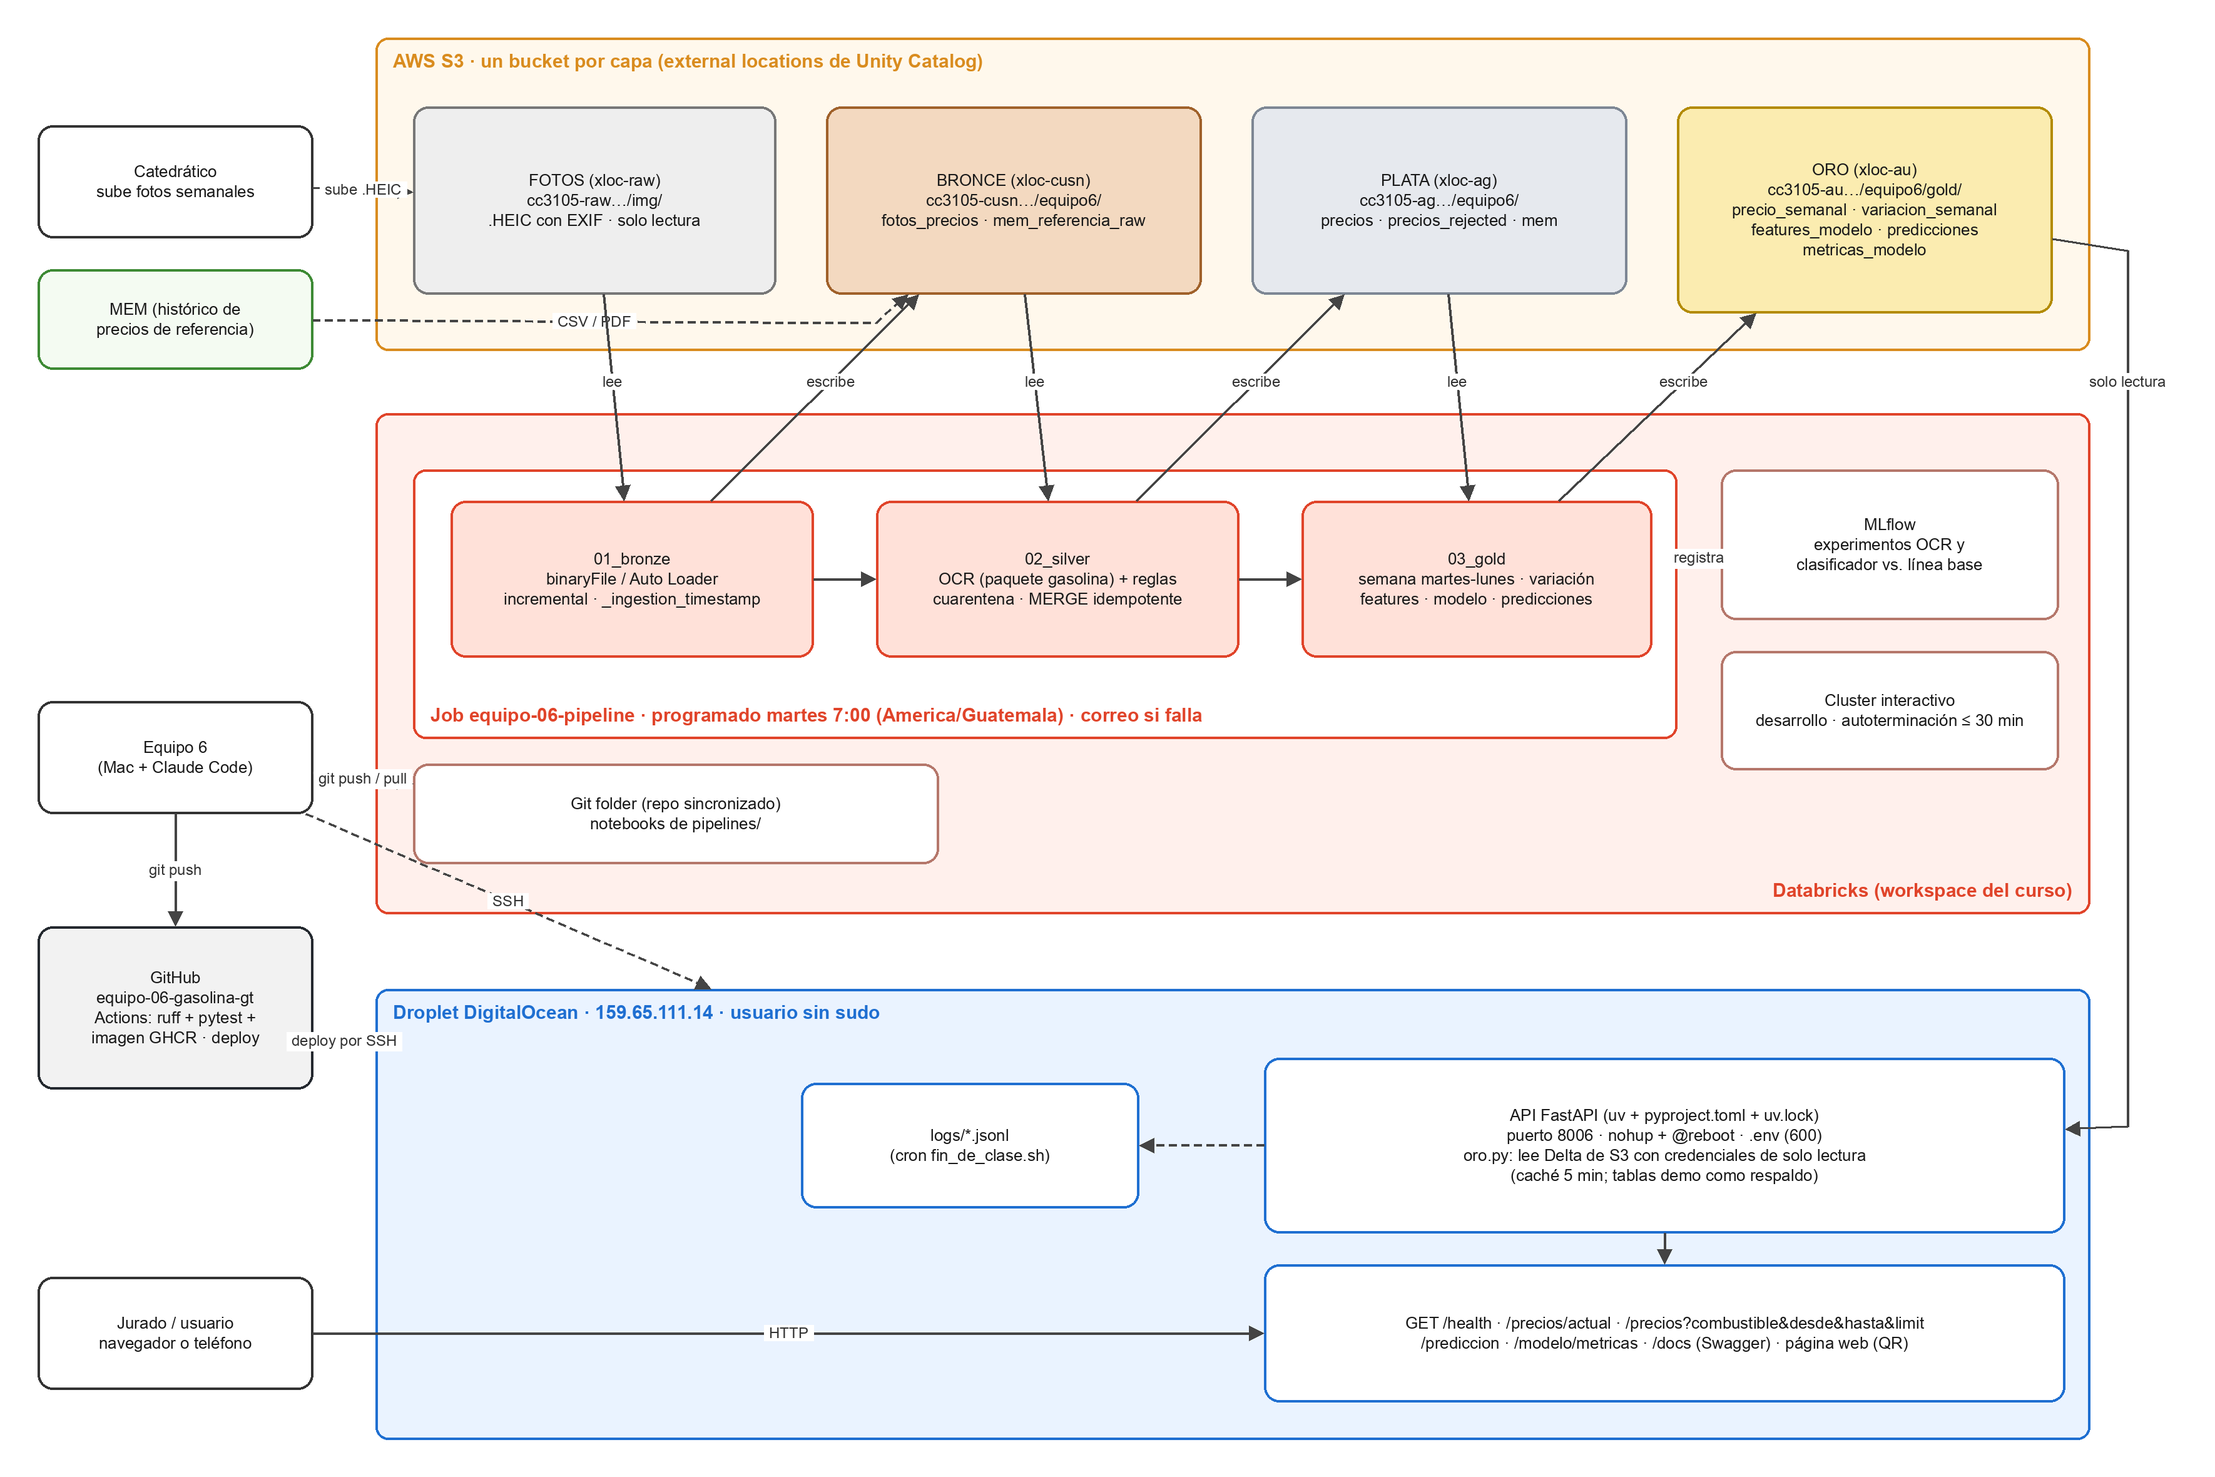
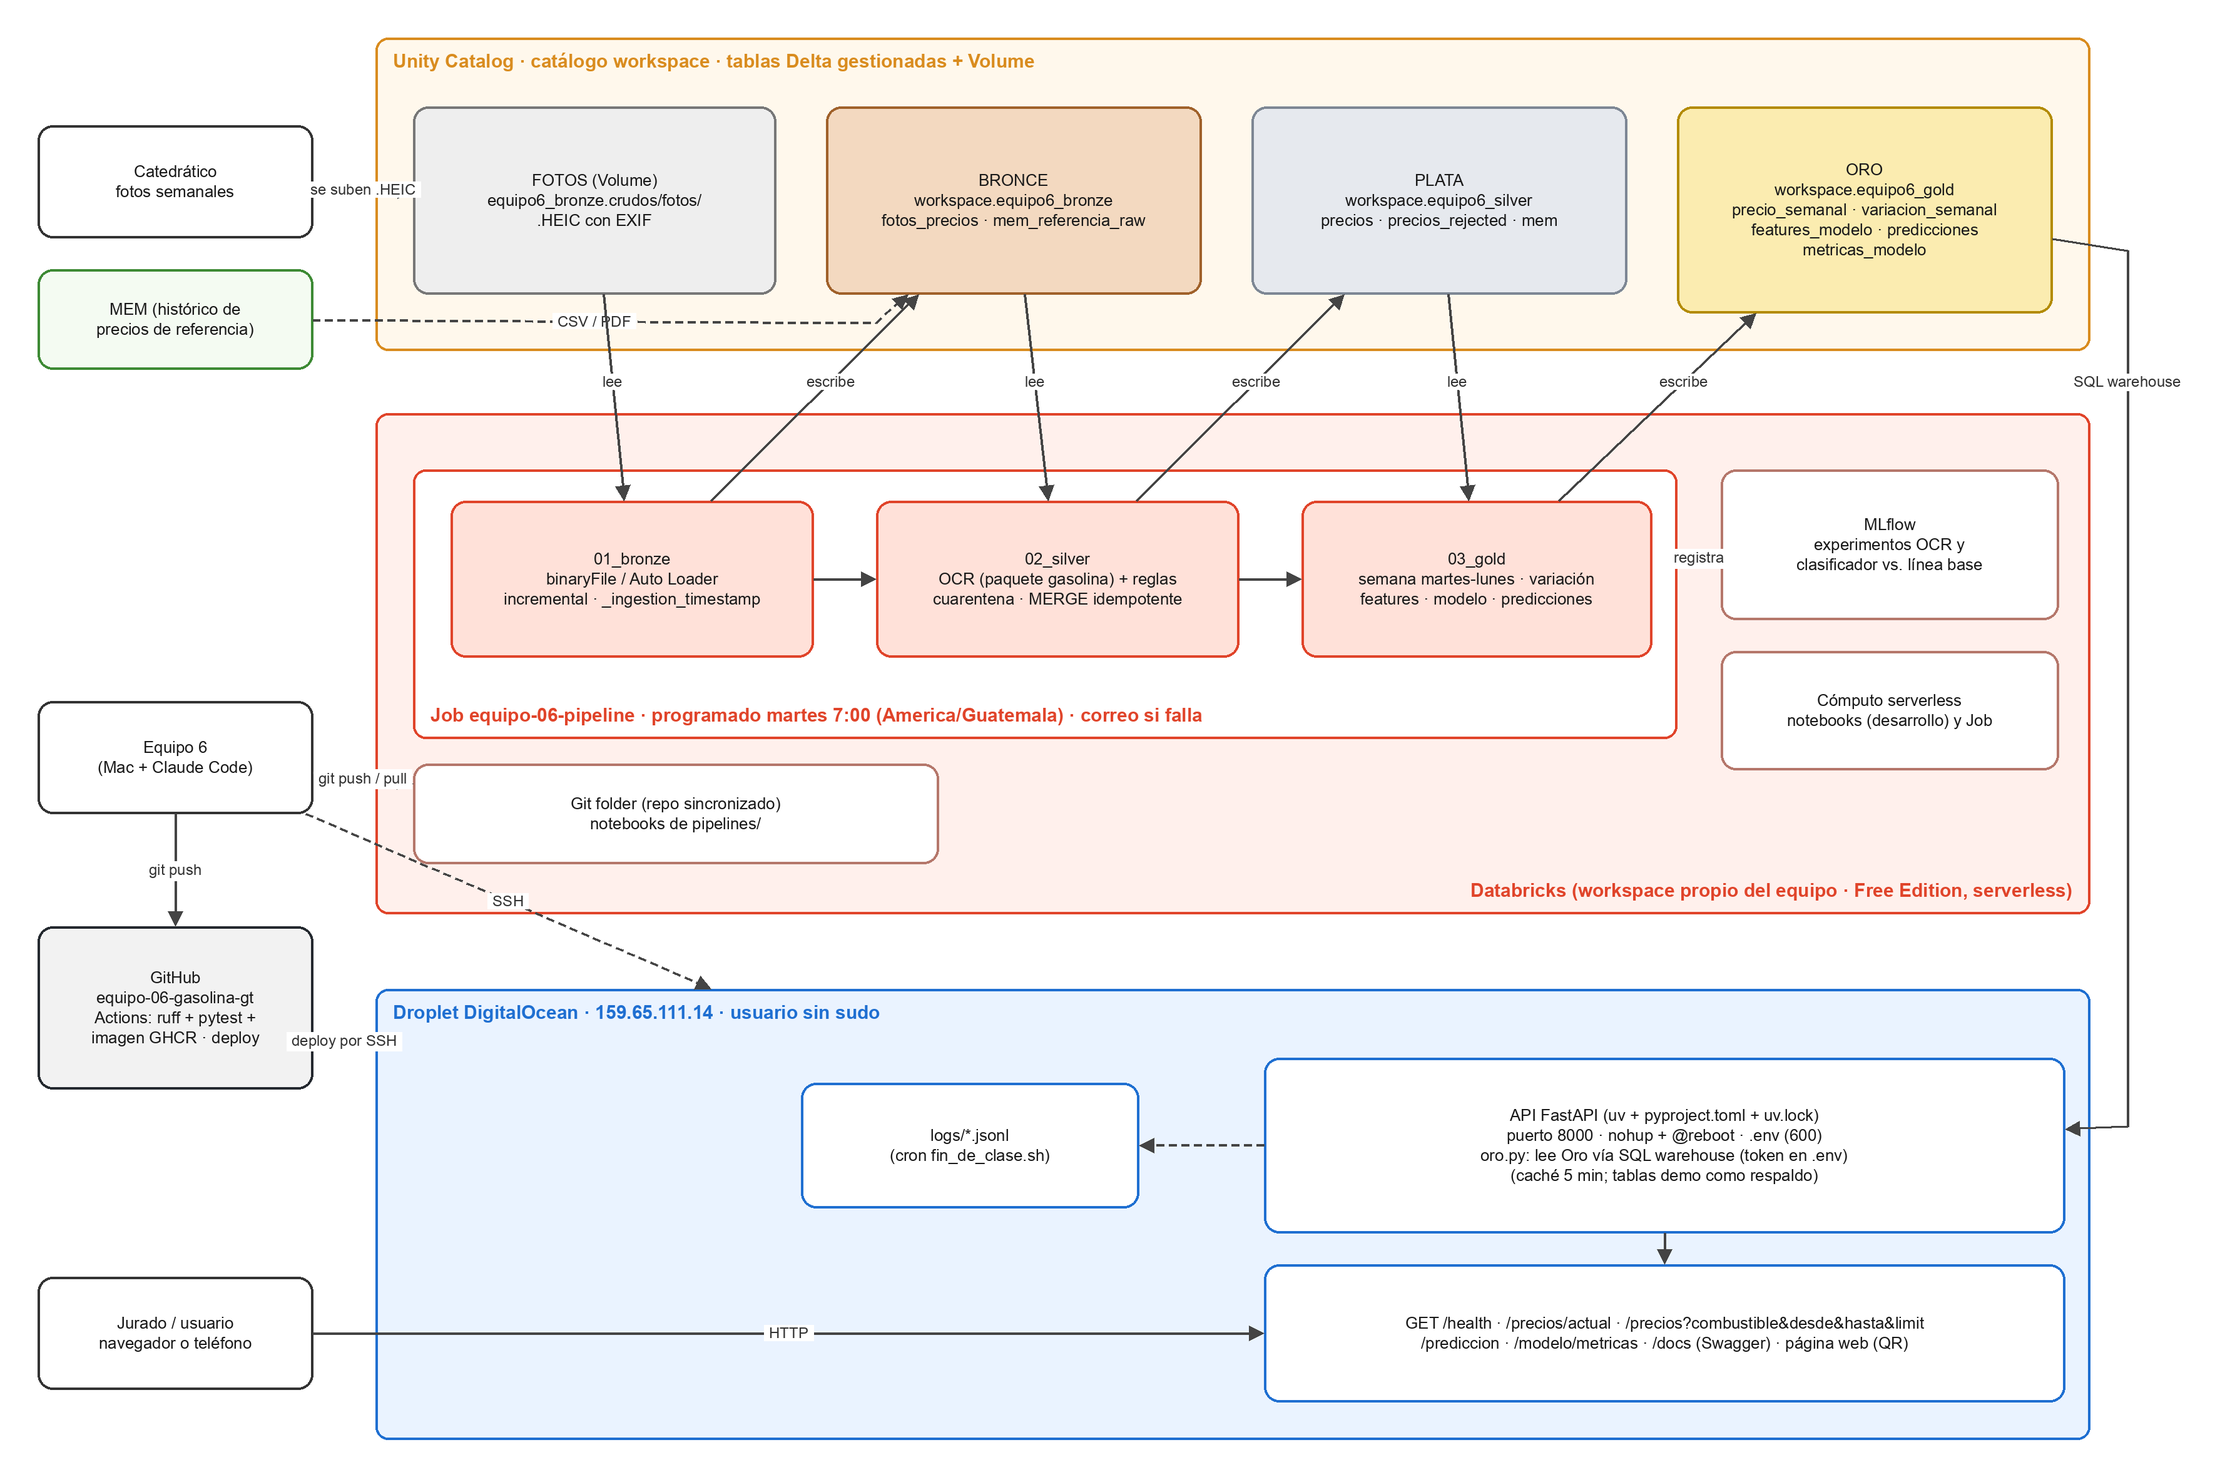
Workspace propio: tablas gestionadas y Volume crudos en vez de los buckets S3
Decisión del 13 nov (catedrático): usar nuestro propio workspace de Databricks.
- 00_setup: sin LOCATION; crea el Volume workspace.equipo6_bronze.crudos
  (fotos/, complementarias/mem/, complementarias/fred/, _checkpoints/).
- 01_bronze/02_silver/03_gold: rutas por defecto al Volume o vacías (gestionadas);
  con una ruta s3://… se siguen escribiendo como externas.
- %pip install .. en vez de la ruta con TU_CORREO.
- job.json, config.yaml, README y diagrama: Oro se lee vía SQL warehouse, API en puerto 8000.

diff --git a/scripts/generar_arquitectura.py b/scripts/generar_arquitectura.py
@@ -39,21 +39,22 @@ C = {
 # id: (texto, x, y, ancho, alto, estilo, es_contenedor)
 NODOS = {
     # Contenedores
-    "aws": ("AWS S3 · un bucket por capa (external locations de Unity Catalog)",
+    "aws": ("Unity Catalog · catálogo workspace · tablas Delta gestionadas + Volume",
             300, 30, 1370, 250, "s3", True),
-    "dbx": ("Databricks (workspace del curso)", 300, 330, 1370, 400, "dbx", True),
+    "dbx": ("Databricks (workspace propio del equipo · Free Edition, serverless)",
+            300, 330, 1370, 400, "dbx", True),
     "job": ("Job equipo-06-pipeline · programado martes 7:00 (America/Guatemala) · correo si falla",
             330, 375, 1010, 215, "job", True),
     "droplet": ("Droplet DigitalOcean · 159.65.111.14 · usuario sin sudo",
                 300, 790, 1370, 360, "droplet", True),
     # S3
-    "raw": ("FOTOS (xloc-raw)\ncc3105-raw…/img/\n.HEIC con EXIF · solo lectura", 330, 85, 290, 150,
+    "raw": ("FOTOS (Volume)\nequipo6_bronze.crudos/fotos/\n.HEIC con EXIF", 330, 85, 290, 150,
             "raw", False),
-    "bronce": ("BRONCE (xloc-cusn)\ncc3105-cusn…/equipo6/\nfotos_precios · mem_referencia_raw",
+    "bronce": ("BRONCE\nworkspace.equipo6_bronze\nfotos_precios · mem_referencia_raw",
                660, 85, 300, 150, "bronce", False),
-    "plata": ("PLATA (xloc-ag)\ncc3105-ag…/equipo6/\nprecios · precios_rejected · mem",
+    "plata": ("PLATA\nworkspace.equipo6_silver\nprecios · precios_rejected · mem",
               1000, 85, 300, 150, "plata", False),
-    "oro": ("ORO (xloc-au)\ncc3105-au…/equipo6/gold/\nprecio_semanal · variacion_semanal\n"
+    "oro": ("ORO\nworkspace.equipo6_gold\nprecio_semanal · variacion_semanal\n"
             "features_modelo · predicciones\nmetricas_modelo", 1340, 85, 300, 165, "oro", False),
     # Databricks
     "t1": ("01_bronze\nbinaryFile / Auto Loader\nincremental · _ingestion_timestamp",
@@ -64,21 +65,21 @@ NODOS = {
            1040, 400, 280, 125, "tarea", False),
     "mlflow": ("MLflow\nexperimentos OCR y\nclasificador vs. línea base", 1375, 375, 270, 120,
                "aux", False),
-    "interactivo": ("Cluster interactivo\ndesarrollo · autoterminación ≤ 30 min", 1375, 520,
+    "interactivo": ("Cómputo serverless\nnotebooks (desarrollo) y Job", 1375, 520,
                     270, 95, "aux", False),
     "gitfolder": ("Git folder (repo sincronizado)\nnotebooks de pipelines/", 330, 610, 420, 80,
                   "aux", False),
     # Droplet
     "api": ("API FastAPI (uv + pyproject.toml + uv.lock)\n"
-            "puerto 8006 · nohup + @reboot · .env (600)\n"
-            "oro.py: lee Delta de S3 con credenciales de solo lectura\n(caché 5 min; tablas demo "
+            "puerto 8000 · nohup + @reboot · .env (600)\n"
+            "oro.py: lee Oro vía SQL warehouse (token en .env)\n(caché 5 min; tablas demo "
             "como respaldo)", 1010, 845, 640, 140, "api", False),
     "endpoints": ("GET /health · /precios/actual · /precios?combustible&desde&hasta&limit\n"
                   "/prediccion · /modelo/metricas · /docs (Swagger) · página web (QR)",
                   1010, 1010, 640, 110, "api", False),
     "logs": ("logs/*.jsonl\n(cron fin_de_clase.sh)", 640, 865, 270, 100, "api", False),
     # Actores
-    "profe": ("Catedrático\nsube fotos semanales", 30, 100, 220, 90, "actor", False),
+    "profe": ("Catedrático\nfotos semanales", 30, 100, 220, 90, "actor", False),
     "mem": ("MEM (histórico de\nprecios de referencia)", 30, 215, 220, 80, "ext", False),
     "equipo": ("Equipo 6\n(Mac + Claude Code)", 30, 560, 220, 90, "actor", False),
     "github": ("GitHub\nequipo-06-gasolina-gt\nActions: ruff + pytest +\nimagen GHCR · deploy",
@@ -91,7 +92,7 @@ TITULO_ABAJO = {"job": "bl", "dbx": "br"}
 
 # (origen, destino, texto, punteada[, puntos intermedios])
 FLECHAS = [
-    ("profe", "raw", "sube .HEIC", False),
+    ("profe", "raw", "se suben .HEIC", False),
     ("mem", "bronce", "CSV / PDF", True, [(700, 258)]),
     ("raw", "t1", "lee", False),
     ("t1", "bronce", "escribe", False),
@@ -102,7 +103,7 @@ FLECHAS = [
     ("plata", "t3", "lee", False),
     ("t3", "oro", "escribe", False),
     ("job", "mlflow", "registra", True),
-    ("oro", "api", "solo lectura", False, [(1700, 200), (1700, 900)]),
+    ("oro", "api", "SQL warehouse", False, [(1700, 200), (1700, 900)]),
     ("api", "endpoints", "", False),
     ("api", "logs", "", True),
     ("equipo", "gitfolder", "git push / pull", False),

diff --git a/pipelines/03_gold.py b/pipelines/03_gold.py
@@ -4,13 +4,13 @@
 # MAGIC
 # MAGIC **ESQUELETO.** Partes: (1) `precio_semanal`, `variacion_semanal` y `features_modelo` —
 # MAGIC **Datos**; (2) entrenamiento con MLflow, `predicciones` y `metricas_modelo` — **Modelos**.
-# MAGIC Contrato 5.4 de `docs/instructivos/INSTRUCTIVO_GENERAL.md`: la API lee estas tablas de
-# MAGIC `s3://cc3105-au-869227452861-us-east-2-an/equipo6/gold/<tabla>/`, así que los nombres de
+# MAGIC Contrato 5.4 de `docs/instructivos/INSTRUCTIVO_GENERAL.md`: la API del servidor lee estas
+# MAGIC tablas (`workspace.equipo6_gold.<tabla>`, vía SQL warehouse), así que los nombres de
 # MAGIC columnas tienen que ser exactamente esos.
 
 # COMMAND ----------
 
-# MAGIC %pip install /Workspace/Users/TU_CORREO/gasolina-mlops
+# MAGIC %pip install ..
 
 # COMMAND ----------
 
@@ -22,7 +22,7 @@ dbutils.widgets.text("catalogo", "workspace")
 dbutils.widgets.text("esquema_bronze", "equipo6_bronze")
 dbutils.widgets.text("esquema_silver", "equipo6_silver")
 dbutils.widgets.text("esquema_gold", "equipo6_gold")
-dbutils.widgets.text("ruta_equipo_oro", "s3://cc3105-au-869227452861-us-east-2-an/equipo6")
+dbutils.widgets.text("ruta_equipo_oro", "")  # vacío = tablas gestionadas; s3://… = externas
 dbutils.widgets.text("umbral_q", "0.10")
 dbutils.widgets.text("modalidad_mem", "autoservicio")
 
@@ -30,8 +30,8 @@ CATALOGO = dbutils.widgets.get("catalogo")
 BRONZE = f"{CATALOGO}.{dbutils.widgets.get('esquema_bronze')}"
 SILVER = f"{CATALOGO}.{dbutils.widgets.get('esquema_silver')}"
 GOLD = f"{CATALOGO}.{dbutils.widgets.get('esquema_gold')}"
-RUTA_EQUIPO_ORO = dbutils.widgets.get("ruta_equipo_oro").rstrip("/")
-RUTA_GOLD = f"{RUTA_EQUIPO_ORO}/gold"  # las tablas viven en <ruta_equipo_oro>/gold/<tabla>/
+RUTA_EQUIPO_ORO = dbutils.widgets.get("ruta_equipo_oro").strip().rstrip("/")
+RUTA_GOLD = f"{RUTA_EQUIPO_ORO}/gold" if RUTA_EQUIPO_ORO else ""  # <ruta>/gold/<tabla>/ si es S3
 UMBRAL_Q = float(dbutils.widgets.get("umbral_q"))
 MODALIDAD_MEM = dbutils.widgets.get("modalidad_mem")
 
@@ -42,10 +42,11 @@ def _lit(texto: str) -> str:
 
 
 def guardar_oro(df, tabla: str, comentario: str, columnas: dict | None = None):
-    """Escribe una tabla Oro externa en RUTA_GOLD/<tabla> (overwrite = idempotente) y le pone
-    COMMENT a la tabla y, si se pasan, a cada columna."""
+    """Escribe una tabla Oro (overwrite = idempotente): gestionada, o externa en
+    RUTA_GOLD/<tabla> si ruta_equipo_oro es s3://…; le pone COMMENT a la tabla y a cada columna."""
     (df.write.format("delta").mode("overwrite").option("overwriteSchema", "true")
-       .option("path", f"{RUTA_GOLD}/{tabla}").saveAsTable(f"{GOLD}.{tabla}"))
+       .options(**({"path": f"{RUTA_GOLD}/{tabla}"} if RUTA_GOLD else {}))
+       .saveAsTable(f"{GOLD}.{tabla}"))
     spark.sql(f"COMMENT ON TABLE {GOLD}.{tabla} IS {_lit(comentario)}")
     for columna, texto in (columnas or {}).items():
         spark.sql(f"ALTER TABLE {GOLD}.{tabla} ALTER COLUMN `{columna}` COMMENT {_lit(texto)}")
@@ -217,7 +218,7 @@ print(f"variacion_semanal: {len(variacion_pd)} filas | features_modelo: {len(fea
 
 # COMMAND ----------
 
-# MAGIC %md ### 1.4 Escritura (tablas externas en `<ruta_equipo_oro>/gold/<tabla>/`, `overwrite`) y `COMMENT`s
+# MAGIC %md ### 1.4 Escritura (`overwrite`, tablas gestionadas o externas según `ruta_equipo_oro`) y `COMMENT`s
 
 # COMMAND ----------
 

diff --git a/pipelines/01_bronze.py b/pipelines/01_bronze.py
@@ -2,7 +2,7 @@
 # MAGIC %md
 # MAGIC # 01_bronze — Ingesta incremental de fotos y fuentes complementarias (Fase 1)
 # MAGIC
-# MAGIC 1. Lee las fotos del bucket de fotos (solo lectura) con **Auto Loader**
+# MAGIC 1. Lee las fotos de `ruta_fotos` (por defecto el Volume `crudos/fotos/`) con **Auto Loader**
 # MAGIC    (`cloudFiles.format = binaryFile`, `trigger(availableNow=True)`) y las agrega a
 # MAGIC    `bronze.fotos_precios` (contrato 5.1) con `_ingestion_timestamp`, `_source_file` y
 # MAGIC    `fecha_carpeta`. El checkpoint recuerda qué archivos ya se cargaron: **una segunda corrida no
@@ -19,8 +19,8 @@
 
 dbutils.widgets.text("catalogo", "workspace")
 dbutils.widgets.text("esquema_bronze", "equipo6_bronze")
-dbutils.widgets.text("ruta_fotos", "s3://cc3105-raw-869227452861-us-east-2-an/img/")
-dbutils.widgets.text("ruta_equipo_bronze", "s3://cc3105-cusn-869227452861-us-east-2-an/equipo6")
+dbutils.widgets.text("ruta_fotos", "/Volumes/workspace/equipo6_bronze/crudos/fotos/")
+dbutils.widgets.text("ruta_equipo_bronze", "/Volumes/workspace/equipo6_bronze/crudos")
 dbutils.widgets.text("ruta_repo", "")  # carpeta del Git folder (solo informativo / %pip install)
 dbutils.widgets.dropdown("modo", "autoloader", ["autoloader", "batch_merge"])
 
@@ -30,6 +30,8 @@ RUTA_FOTOS = dbutils.widgets.get("ruta_fotos")
 RUTA_EQUIPO = dbutils.widgets.get("ruta_equipo_bronze").rstrip("/")
 RUTA_REPO = dbutils.widgets.get("ruta_repo")
 MODO = dbutils.widgets.get("modo")
+# Con s3:// las tablas *_raw son externas en esa ruta; con un Volume son gestionadas.
+EXTERNAS = RUTA_EQUIPO.startswith("s3://")
 
 TABLA = f"{CATALOGO}.{ESQUEMA}.fotos_precios"
 CHECKPOINT = f"{RUTA_EQUIPO}/_checkpoints/fotos_precios/"
@@ -156,7 +158,7 @@ for tabla, carpeta, patron, descripcion in COMPLEMENTARIAS:
     )
     (
         df.write.format("delta").mode("overwrite").option("overwriteSchema", "true")
-        .option("path", f"{RUTA_EQUIPO}/bronze/{tabla}")
+        .options(**({"path": f"{RUTA_EQUIPO}/bronze/{tabla}"} if EXTERNAS else {}))
         .saveAsTable(destino)
     )
     spark.sql(f"COMMENT ON TABLE {destino} IS '{descripcion} Columnas de auditoría: _ingestion_timestamp, _source_file.'")

diff --git a/pipelines/02_silver.py b/pipelines/02_silver.py
@@ -8,7 +8,7 @@
 
 # COMMAND ----------
 
-# MAGIC %pip install /Workspace/Users/TU_CORREO/gasolina-mlops
+# MAGIC %pip install ..
 
 # COMMAND ----------
 
@@ -58,8 +58,10 @@ PREPROC = dbutils.widgets.get("preproc")
 
 # COMMAND ----------
 
-dbutils.widgets.text("ruta_equipo_silver", "s3://cc3105-ag-869227452861-us-east-2-an/equipo6")
-RUTA_SILVER = dbutils.widgets.get("ruta_equipo_silver").rstrip("/")
+# Vacío = tabla gestionada (workspace propio). Con s3://… se crea como externa en esa ruta.
+dbutils.widgets.text("ruta_equipo_silver", "")
+RUTA_SILVER = dbutils.widgets.get("ruta_equipo_silver").strip().rstrip("/")
+LOCATION_MEM = f"LOCATION '{RUTA_SILVER}/silver/mem_referencia'" if RUTA_SILVER else ""
 
 T_PRECIOS = f"{SILVER}.precios"
 T_RECHAZADOS = f"{SILVER}.precios_rejected"
@@ -209,7 +211,7 @@ spark.sql(f"""
       _procesado_en  TIMESTAMP     COMMENT 'Fecha y hora de la carga a Plata'
     )
     USING DELTA
-    LOCATION '{RUTA_SILVER}/silver/mem_referencia'
+    {LOCATION_MEM}
     COMMENT 'Histórico semanal de precios de referencia del MEM, limpio y tipado. Semanas faltantes sin rellenar.'
 """)
 

diff --git a/README.md b/README.md
@@ -18,15 +18,15 @@ en un Droplet de DigitalOcean.
 Editable en [app.diagrams.net](https://app.diagrams.net) con `docs/arquitectura.drawio`; se regenera con `python scripts/generar_arquitectura.py`. Resumen en texto:
 
 ```
-s3://cc3105-raw-…/img/  ──►  BRONCE  s3://cc3105-cusn-…/equipo6/   bronze.fotos_precios (Auto Loader, incremental)
+Volume crudos/fotos/  ──►  BRONCE  workspace.equipo6_bronze   bronze.fotos_precios (Auto Loader, incremental)
  (fotos del catedrático)       │
                                ▼  OCR + 5 reglas de calidad + MERGE
-                             PLATA   s3://cc3105-ag-…/equipo6/     silver.precios, silver.precios_rejected
+                             PLATA   workspace.equipo6_silver   silver.precios, silver.precios_rejected
                                │
                                ▼  semana martes-lunes, variación, features, modelo (MLflow)
-                             ORO     s3://cc3105-au-…/equipo6/     gold.precio_semanal, variacion_semanal,
-                               │                                   features_modelo, predicciones, metricas_modelo
-                               ▼  deltalake (credenciales de solo lectura)
+                             ORO     workspace.equipo6_gold     gold.precio_semanal, variacion_semanal,
+                               │                                features_modelo, predicciones, metricas_modelo
+                               ▼  SQL warehouse (token de Databricks en el .env del servidor)
                              API FastAPI en el Droplet (uv) ◄── usuario (HTTP) · equipo (SSH) · GitHub Actions (CD)
 ```
 

diff --git a/pipelines/README.md b/pipelines/README.md
@@ -4,7 +4,7 @@ Notebooks en formato de Databricks (`# Databricks notebook source`). Se sincroni
 
 | Orden | Notebook | Dueño | Qué hace |
 | --- | --- | --- | --- |
-| 0 | `00_setup.sql` | Datos | Esquemas `equipo6_bronze/silver/gold` y tablas externas en `s3://…/equipo6/` (una vez). |
+| 0 | `00_setup.sql` | Datos | Esquemas `equipo6_bronze/silver/gold`, Volume `equipo6_bronze.crudos` y tablas gestionadas (una vez). |
 | 1 | `01_bronze.py` | Datos | Auto Loader (`binaryFile`) de `raw/img/` → `bronze.fotos_precios`, incremental, con auditoría. |
 | 2 | `02_silver.py` | Modelos + Datos | OCR → `silver.precios`; reglas de calidad → `silver.precios_rejected`; MERGE idempotente. |
 | 3 | `03_gold.py` | Datos + Modelos | `precio_semanal`, `variacion_semanal`, `features_modelo`; modelo (MLflow), `predicciones`, `metricas_modelo`. |
